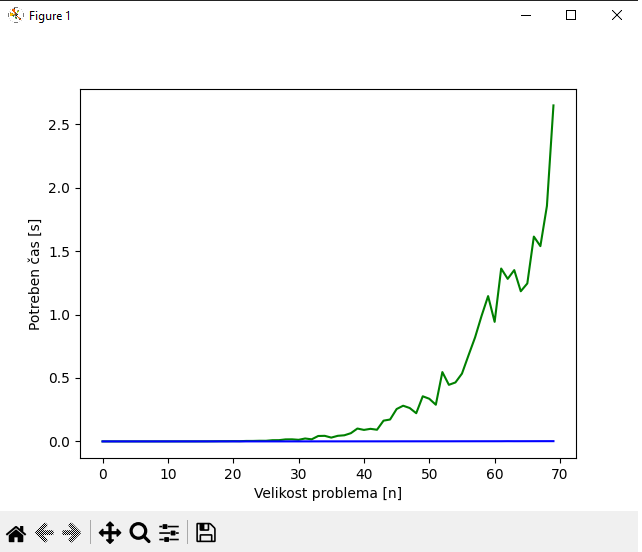
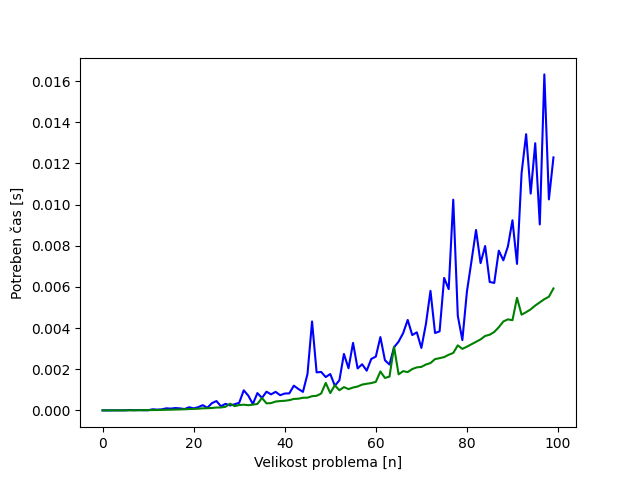
spremembe

diff --git a/Porocilo1/Vaje1-4/Vaje1/merilnik.py b/Porocilo1/Vaje1-4/Vaje1/merilnik.py
@@ -81,12 +81,12 @@ def primerjava_algoritmov(fun, gen_primerov, sez_n, k = 10):
 
 def test_gen_sez(n):
     "Generira testni seznam dolžine n."
-    return [random.randint(1, n) for _ in range(n)]
+    return [random.randint(1, 4) for _ in range(n)]
 # -----------------------------------------------------------------------------
 
 if __name__ == '__main__':
     print("Starting")
     #primerjava iterativne zabice in zabice z rekurzijo
-    #primerjava_algoritmov([Zabica.zabica, Zabica.zabica_iter], test_gen_sez, [i for i in range(70)])
-    narisi_in_pokazi_graf(Zabica.zabica_iter, test_gen_sez, [i for i in range(200)])
+    primerjava_algoritmov([Zabica.zabica, Zabica.zabica_iter], test_gen_sez, [i for i in range(100)])
+    #narisi_in_pokazi_graf(Zabica.zabica_iter, test_gen_sez, [i for i in range(200)])
     print("Done")

diff --git a/Porocilo1/Preberi.md b/Porocilo1/Preberi.md
@@ -14,25 +14,25 @@ Vse vaje se nahajajo v folderju <i> Vaje1-4 </i>
 
 **Datum:** 15.02.2023
 
-Reševali smo dinamične probleme na Tomotu. Cilj vaj je bil, da smo rešili vsaj eno nalogo rekurzivno in eno z bottoms-up pristopom. Glej ```Zapiski_vaj``` in ```Vaje1\Zabica.py```.
+Reševali smo dinamične probleme na Tomotu. Cilj vaj je bil, da smo rešili vsaj eno nalogo rekurzivno in eno z bottoms-up pristopom. Glej [Zapiski_vaj](Vaje1-4/Vaje1/Zapiski_vaj) in [Zabica.py](Vaje1-4/Vaje1/Zabica.py).
 
 ## Vaje 2
 
 **Datum:** 22.02.2023
 
-Ogledali smo si problem 0/1 nahrbtnika. Glej ```Zapiski_vaj```.
+Ogledali smo si problem 0/1 nahrbtnika. Glej [Zapiski_vaj](Vaje1-4/Vaje2/Zapiski_vaj).
 
 ## Vaje 3
 
 **Datum:** 1.03.2023
 
-Reševali smo problem 0/1 nahrbtnika na Tomotu. Tisti, ki je prvi rešil največ nalog mu za te vaje ni bilo potrebno oddati poročila. To sva bila jaz in Aljaž. Funkcije, ki sva jih takrat napisala se nahajajo v  ```Vaje3\Nahrbtnik.py```.
+Reševali smo problem 0/1 nahrbtnika na Tomotu. Tisti, ki je prvi rešil največ nalog mu za te vaje ni bilo potrebno oddati poročila. To sva bila jaz in Aljaž. Funkcije, ki sva jih takrat napisala se nahajajo v  [Nahrbtnik.py](Vaje1-4/Vaje3/Nahrbtnik.py).
 
 ## Vaje 4
 
 **Datum:** 8.03.2023
 
-Reševali smo dinamični problem matrik. Glej ```Zapiski_vaj```.
+Reševali smo dinamični problem matrik. Glej [Zapiski_vaj](Vaje1-4/Vaje4/Zapiski_vaj).
 
 ## Komentarji in opombe
 
@@ -43,13 +43,13 @@ Vaje so super. Ničesar nebi spreminjal. Hitrost je dovolj primerna.
 
 1. Analiziral sem nalogo iz prvih vaj na Tomotu - Zabico
 
-2. Za analizo časovne zahtevnosti sem naredil ```merilnik.py```, ki glede na podane parametre prikaže graf in izpiše vrednosti. Za primerjavo sem uporabil iterativno zabico (<i>def zabica_iter</i>) in zabico z rekurzijo (<i>def zabica</i>).
+2. Za analizo časovne zahtevnosti sem naredil [merilnik.py](Vaje1-4/Vaje1/merilnik.py), ki glede na podane parametre prikaže graf in izpiše vrednosti. Za primerjavo sem uporabil iterativno zabico (<i>def zabica_iter</i>) in zabico z rekurzijo (<i>def zabica</i>).
 
-3. Časovna zahtevnost iterativne zabice je ```O(n) ```, kjer je **n** dolžina tabele <i>močvara</i>. Časovna zahtevnost rekurzivne žabice pa ```O(n^2)```, ker smo iterirali skozi vsa polja in za vsako polje preverili vse možne skoke, kjer je **n** dolžina tabele <i>močvara</i>.
+3. Časovna zahtevnost iterativne zabice je ```O(n^3) ```, kjer je **n** dolžina tabele <i>močvara</i>. Časovna zahtevnost rekurzivne žabice pa je enaka ```O(n^3)```, ker smo iterirali skozi vsa polja in za vsako polje preverili vse možne skoke, kjer je **n** dolžina tabele <i>močvara</i>.
 
 ![zabica](Vaje1-4/Vaje1/Figure1.png)
 
-V rdeči barvi je časovna zahtevnost rekurzivne žabice, v zeleni pa iterativne žabice.
+V modri barvi je časovna zahtevnost rekurzivne žabice, v zeleni pa iterativne žabice.
 
 ---
 

diff --git a/Porocilo2/Preberi.md b/Porocilo2/Preberi.md
@@ -1,0 +1,57 @@
+# POROČILO 1
+**ime:** Filip Bojko
+
+## Vsebina 
+- <i>Vaje 1 (15.03.2023)</i>
+- <i>Vaje 2 (22.03.2023)</i>
+- <i>Vaje 3 (01.03.2023)</i>
+- <i>Vaje 4 (08.03.2023)</i>
+
+
+Vse vaje se nahajajo v folderju <i> Vaje4-8 </i>
+
+## Vaje 1
+
+**Datum:** 15.03.2023
+
+Spoznali smo nove grafe (DAG). Glej ```Zapiski_vaj```
+
+## Vaje 2
+
+**Datum:** 22.03.2023
+
+Ogledali smo si problem 0/1 nahrbtnika. Glej ```Zapiski_vaj```.
+
+## Vaje 3
+
+**Datum:** 1.03.2023
+
+Reševali smo problem 0/1 nahrbtnika na Tomotu. Tisti, ki je prvi rešil največ nalog mu za te vaje ni bilo potrebno oddati poročila. To sva bila jaz in Aljaž. Funkcije, ki sva jih takrat napisala se nahajajo v  ```Vaje3\Nahrbtnik.py```.
+
+## Vaje 4
+
+**Datum:** 8.03.2023
+
+Reševali smo dinamični problem matrik. Glej ```Zapiski_vaj```.
+
+## Komentarji in opombe
+
+Vaje so super. Ničesar nebi spreminjal. Hitrost je dovolj primerna. 
+
+---
+## Dodatno
+
+1. Analiziral sem nalogo iz prvih vaj na Tomotu - Zabico
+
+2. Za analizo časovne zahtevnosti sem naredil ```merilnik.py```, ki glede na podane parametre prikaže graf in izpiše vrednosti. Za primerjavo sem uporabil iterativno zabico (<i>def zabica_iter</i>) in zabico z rekurzijo (<i>def zabica</i>).
+
+3. Časovna zahtevnost iterativne zabice je ```O(n) ```, kjer je **n** dolžina tabele <i>močvara</i>. Časovna zahtevnost rekurzivne žabice pa ```O(n^2)```, ker smo iterirali skozi vsa polja in za vsako polje preverili vse možne skoke, kjer je **n** dolžina tabele <i>močvara</i>.
+
+![zabica](Vaje1-4/Vaje1/Figure1.png)
+
+V rdeči barvi je časovna zahtevnost rekurzivne žabice, v zeleni pa iterativne žabice.
+
+---
+
+```merilnik.py``` se nahaja v mapi <i>Vaje1</i>
+
